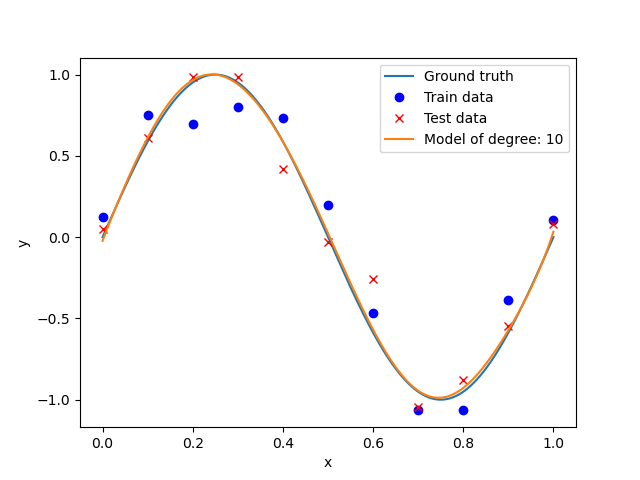
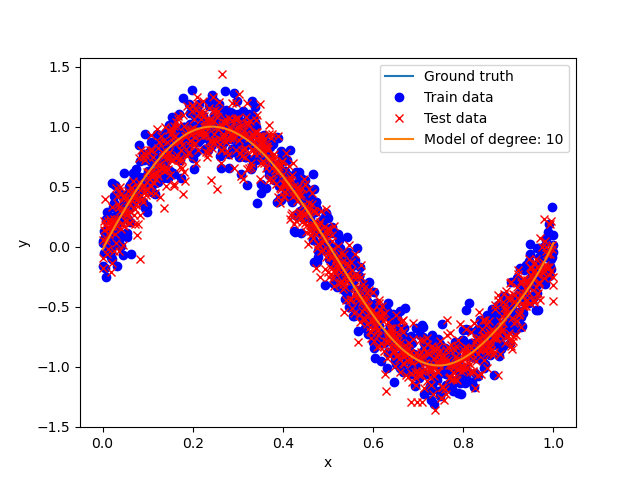
Regenerate images

diff --git a/Ex1/template/template.py b/Ex1/template/template.py
@@ -4,7 +4,7 @@ import matplotlib.pyplot as plt
 import torch
 
 # Convinience functions
-def plot_model(model=None):
+def plot_model(model=None, x_train=None, y_train=None, x_test=None, y_test=None):
     # Visualize data
     plt.plot(
         torch.linspace(0, 1, 1000),
@@ -54,7 +54,7 @@ y_train = ground_truth_function(x_train) + torch.normal(
 )
 
 # Test plotting
-plot_model()
+plot_model(model=None, x_train=x_train, y_train=y_train, x_test=x_test, y_test=y_test)
 plt.savefig("Initial_data.png")
 plt.clf()
 
@@ -95,7 +95,7 @@ def inital():
     print(f"{train_err=}, {test_err=}")
 
     # Result plotting
-    plot_model(model)
+    plot_model(model, x_train, y_train, x_test, y_test)
     plt.savefig("Initial_fit.png")
     plt.clf()
 
@@ -115,7 +115,7 @@ def degree():
         print(f"{train_err=}, {test_err=}")
 
         # Result plotting
-        plot_model(model)
+        plot_model(model, x_train, y_train, x_test, y_test)
         plt.savefig(f"Poly_fit_{model_degree}.png")
         plt.clf()
 
@@ -154,9 +154,11 @@ def data_size(n_samples=10):
             break
 
     # Result plotting
-    plot_model(model)
+    plot_model(model, x_train, y_train, x_test, y_test)
     plt.savefig(f"Sample_fit_{n_samples}.png")
     plt.clf()
 
 
+inital()
+degree()
 data_size()  # Step size of 50 starting at 10 resulted in 960. One could do a narrowed down search in that area for a more precise result
